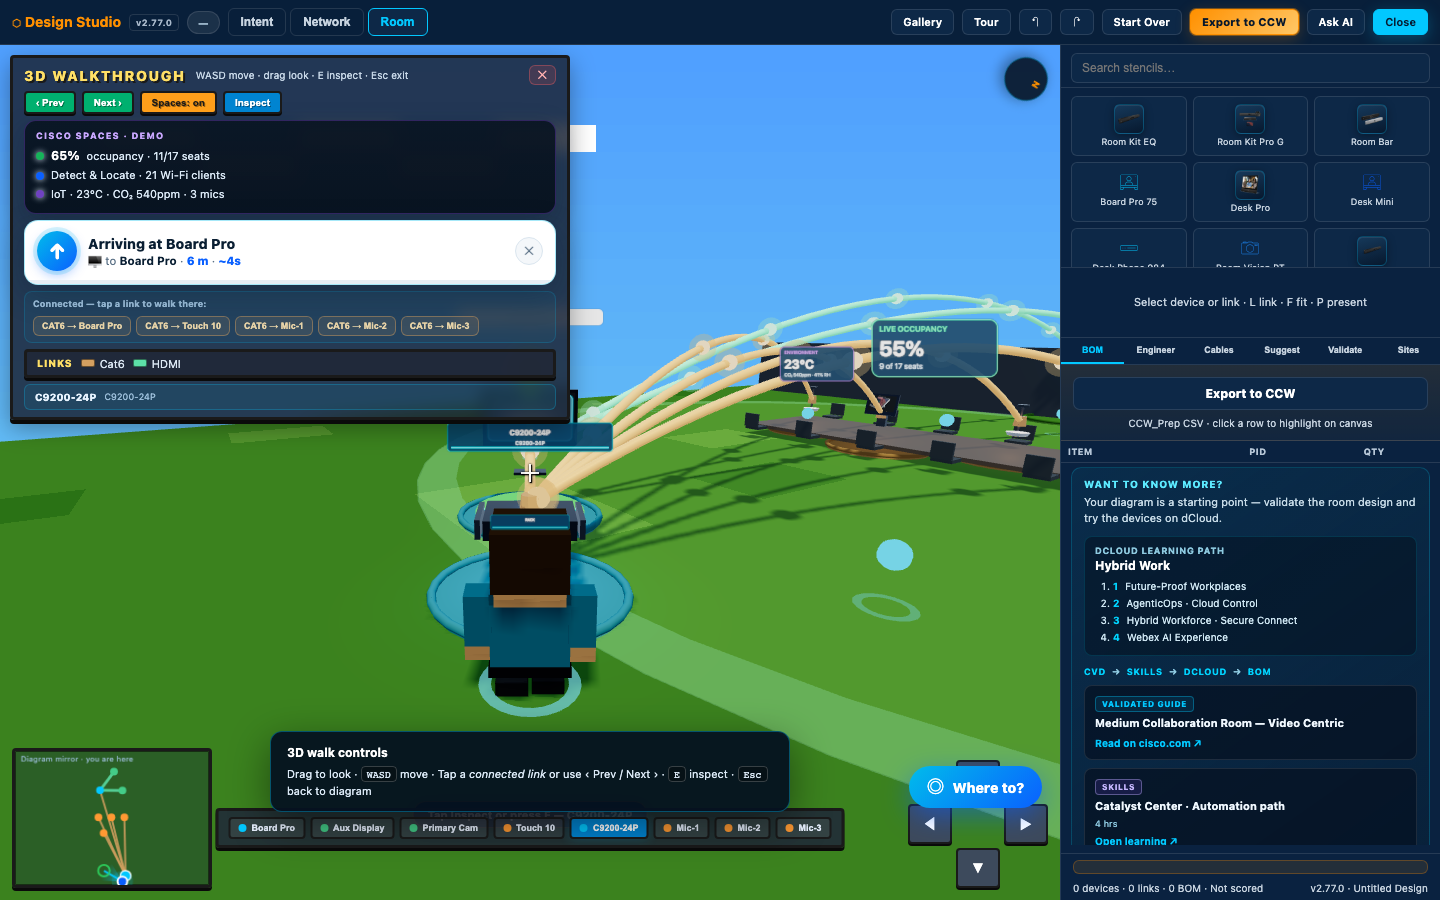
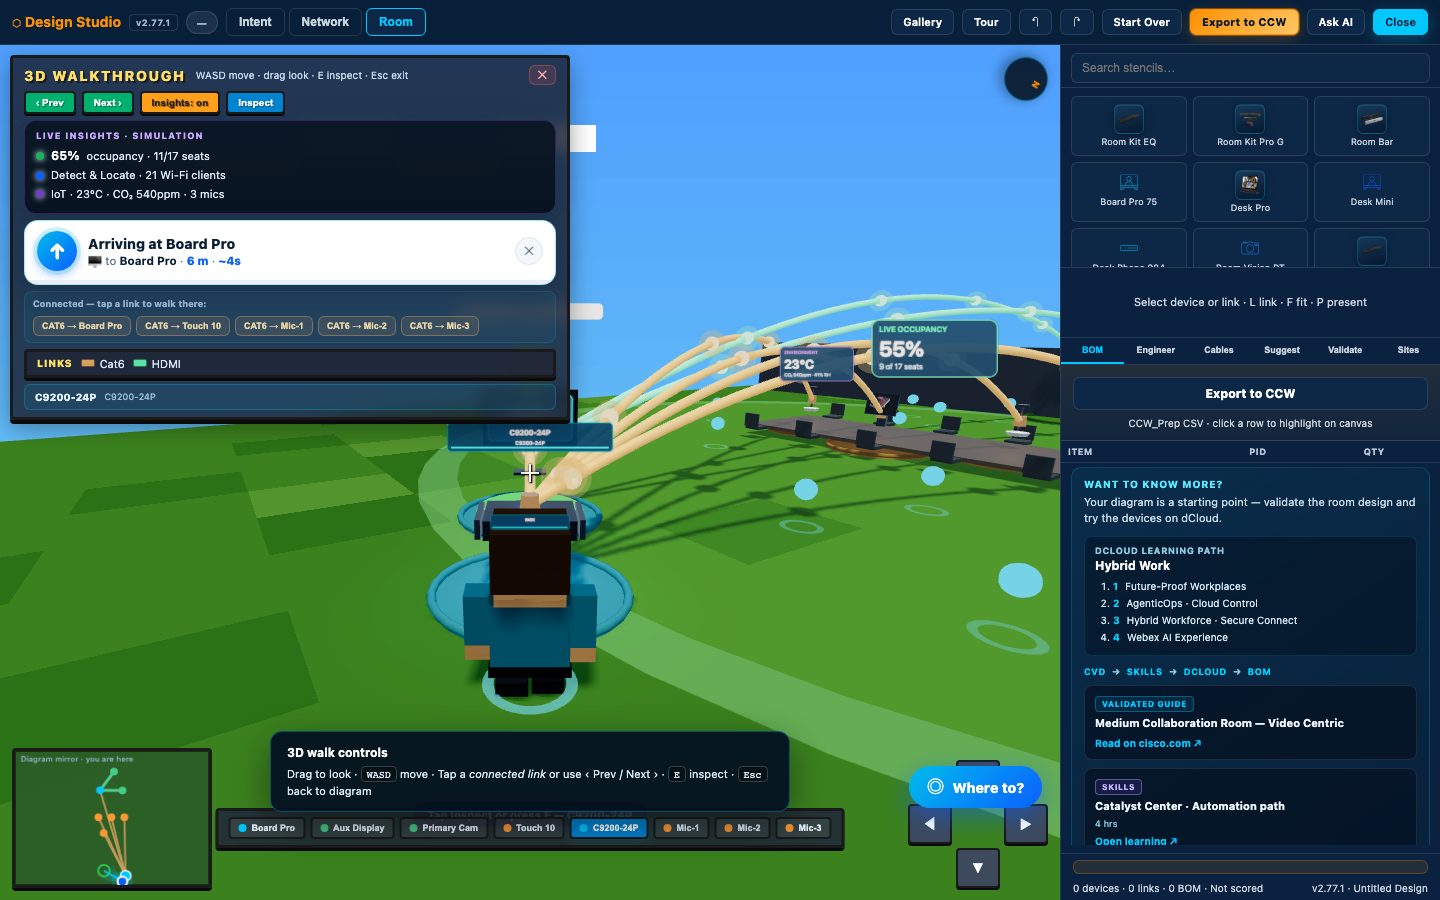
Rename walk outcome toggle to Insights instead of Spaces branding.
Avoids implying parity with Cisco Spaces while keeping the simulated occupancy and IoT overlay.

diff --git a/cisco-portfolio-navigator.html b/cisco-portfolio-navigator.html
@@ -14,7 +14,7 @@
   import * as THREE from "three";
   window.__cpnWalkTHREE = THREE;
   </script>
-  <link rel="stylesheet" href="design-studio.css?v=2.77.0"/>
+  <link rel="stylesheet" href="design-studio.css?v=2.77.1"/>
   <style>
     *,*::before,*::after{box-sizing:border-box;margin:0;padding:0}
     @font-face{
@@ -9636,7 +9636,7 @@ document.addEventListener("keydown",ev=>{
    ══════════════════════════════════════════════════════════════════════════*/
 (function v2(){
 
-const APP_VERSION   = "2.77.0";
+const APP_VERSION   = "2.77.1";
 const DATA_UPDATED  = "2026-06-20";
 const STORAGE_KEYS  = {
   plans:    "cpn-plans-v2",
@@ -15601,18 +15601,18 @@ window.__cpnV2 = {
 <script>window.__DS_ASSET_V="2.51.0";</script>
 <script src="design-studio-photos.js?v=2.58.2"></script>
 <script src="design-studio-stencils.js?v=2.58.2"></script>
-<script src="design-studio-templates.js?v=2.77.0"></script>
+<script src="design-studio-templates.js?v=2.77.1"></script>
 <script src="design-studio-rules.js?v=2.58.2"></script>
-<script src="design-studio-intent.js?v=2.77.0"></script>
+<script src="design-studio-intent.js?v=2.77.1"></script>
 <script src="design-studio-explore.js?v=2.58.2"></script>
-<script src="design-studio-premium.js?v=2.77.0"></script>
+<script src="design-studio-premium.js?v=2.77.1"></script>
 <script src="design-studio-expert.js?v=2.58.2"></script>
-<script src="design-studio-walk-layout.js?v=2.77.0"></script>
-<script src="design-studio-walk-voxel.js?v=2.77.0"></script>
-<script src="design-studio-field-panel.js?v=2.77.0"></script>
-<script src="design-studio-walk-audio.js?v=2.77.0"></script>
-<script src="design-studio-walk-models.js?v=2.77.0"></script>
-<script src="design-studio-walk.js?v=2.77.0"></script>
-<script src="design-studio.js?v=2.77.0"></script>
+<script src="design-studio-walk-layout.js?v=2.77.1"></script>
+<script src="design-studio-walk-voxel.js?v=2.77.1"></script>
+<script src="design-studio-field-panel.js?v=2.77.1"></script>
+<script src="design-studio-walk-audio.js?v=2.77.1"></script>
+<script src="design-studio-walk-models.js?v=2.77.1"></script>
+<script src="design-studio-walk.js?v=2.77.1"></script>
+<script src="design-studio.js?v=2.77.1"></script>
 </body>
 </html>

diff --git a/design-studio-walk.js b/design-studio-walk.js
@@ -2359,7 +2359,7 @@
 
   function toggleOutcomes() {
     if (state.graph?.kind !== "room") {
-      setStatus("Cisco Spaces demo is available in room walk only");
+      setStatus("Insights overlay is available in room walk only");
       return;
     }
     state.outcomes = !state.outcomes;
@@ -2368,16 +2368,16 @@
     if (state.outcomes) {
       if (!state.outcomeGroup) buildOutcomeOverlay(state.THREE);
       btn?.classList.add("active");
-      if (btn) btn.textContent = "Spaces: on";
+      if (btn) btn.textContent = "Insights: on";
       panel?.removeAttribute("hidden");
       renderOutcomeReadout();
-      setStatus("Demo — Cisco Spaces occupancy, Detect & Locate, IoT");
+      setStatus("Simulated occupancy, Detect & Locate, IoT");
     } else {
       removeOutcomeOverlay();
       btn?.classList.remove("active");
-      if (btn) btn.textContent = "Demo: Spaces";
+      if (btn) btn.textContent = "Insights";
       panel?.setAttribute("hidden", "");
-      setStatus("Spaces demo off");
+      setStatus("Insights off");
     }
   }
 
@@ -2410,7 +2410,7 @@
     const occ = Math.round((0.55 + 0.12 * Math.sin(t * 0.4)) * 100);
     const people = Math.max(0, Math.round(st.seats * occ / 100));
     const clients = people + st.deviceCount + 2;
-    el.innerHTML = `<div class="ds-oc-head">CISCO SPACES · DEMO</div>
+    el.innerHTML = `<div class="ds-oc-head">LIVE INSIGHTS · SIMULATION</div>
       <div class="ds-oc-row"><span class="ds-oc-dot" style="background:#16b35a"></span><strong>${occ}%</strong> occupancy · ${people}/${st.seats} seats</div>
       <div class="ds-oc-row"><span class="ds-oc-dot" style="background:#0A60FF"></span>Detect &amp; Locate · ${clients} Wi-Fi clients</div>
       <div class="ds-oc-row"><span class="ds-oc-dot" style="background:#6F42C1"></span>IoT · 23°C · CO₂ 540ppm${st.mics.length ? ` · ${st.mics.length} mic${st.mics.length > 1 ? "s" : ""}` : ""}</div>`;
@@ -2418,7 +2418,7 @@
 
   function hudHtml(tab) {
     const outcomesBtn = tab === "room"
-      ? `<button type="button" class="ds-walk-btn ds-walk-btn-spaces" data-action="outcomes" title="Cisco Spaces outcomes demo — room walks only">Demo: Spaces</button>`
+      ? `<button type="button" class="ds-walk-btn ds-walk-btn-spaces" data-action="outcomes" title="Simulated occupancy, location &amp; IoT overlay — room walks only">Insights</button>`
       : "";
     return `<div class="ds-walk-hud">
       <div class="ds-walk-hud-top">